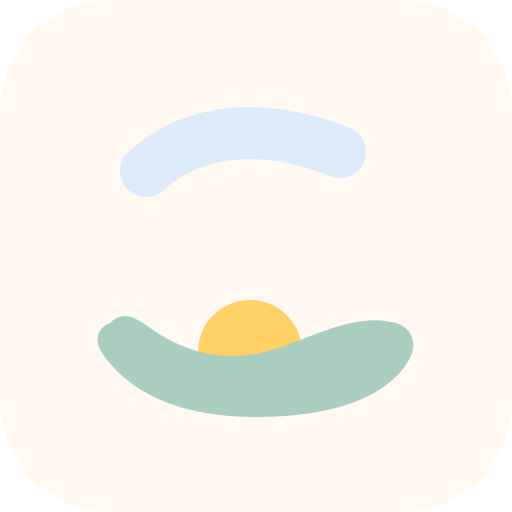
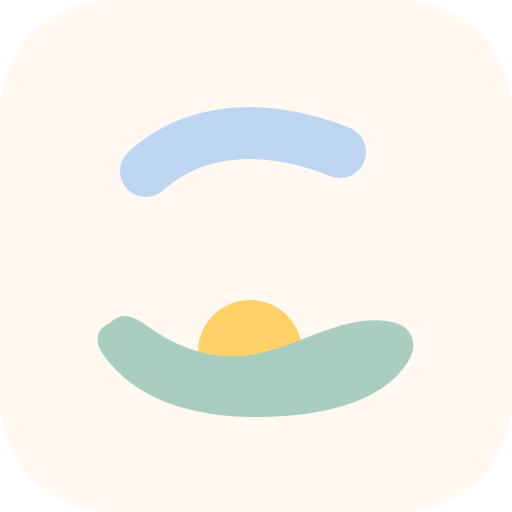
fix: ライトアイコンの水色を見やすく調整

Changed region(s): [[0.2188, 0.1875, 0.7188, 0.4062]]

diff --git a/assets/brand/README.md b/assets/brand/README.md
@@ -6,7 +6,7 @@
 
 - ライト背景: `#FFF9F2`
 - ダーク背景: `#1F2733`
-- ライトの空: `#DDEBFA`
+- ライトの空: `#BFD6F2`
 - ダークの空: `#BFD6F6`
 - ライトの丘: `#A9CDBF`
 - ダークの丘: `#A6D2C2`
